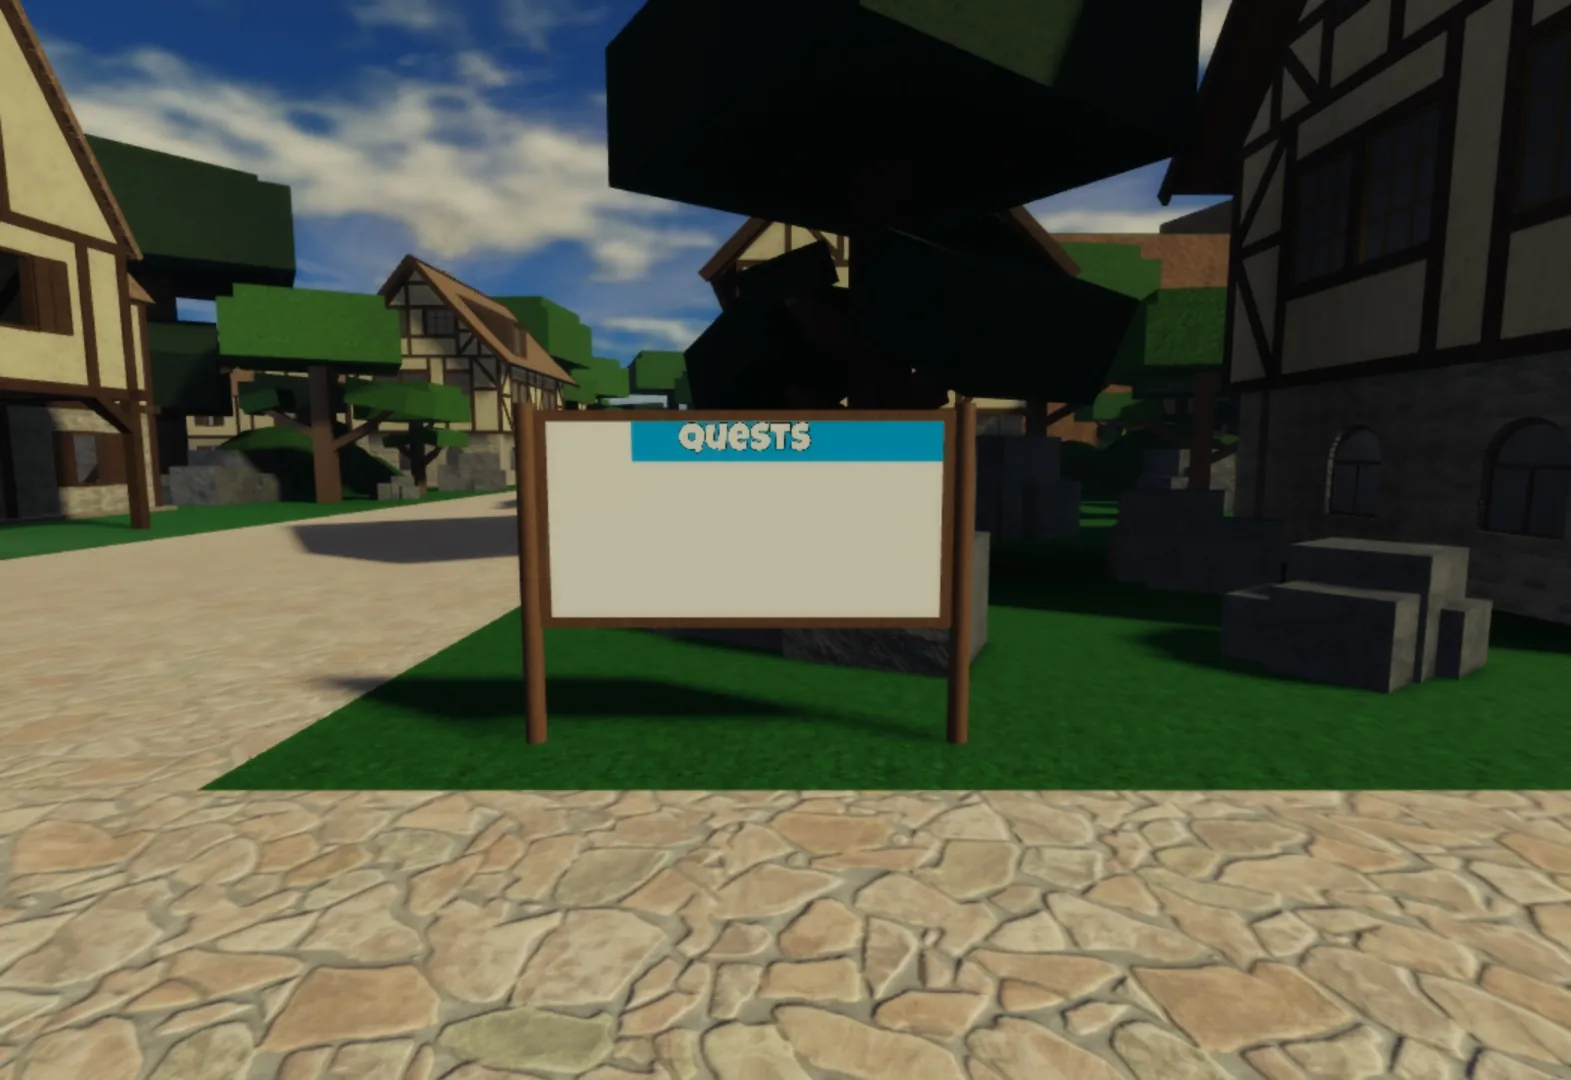
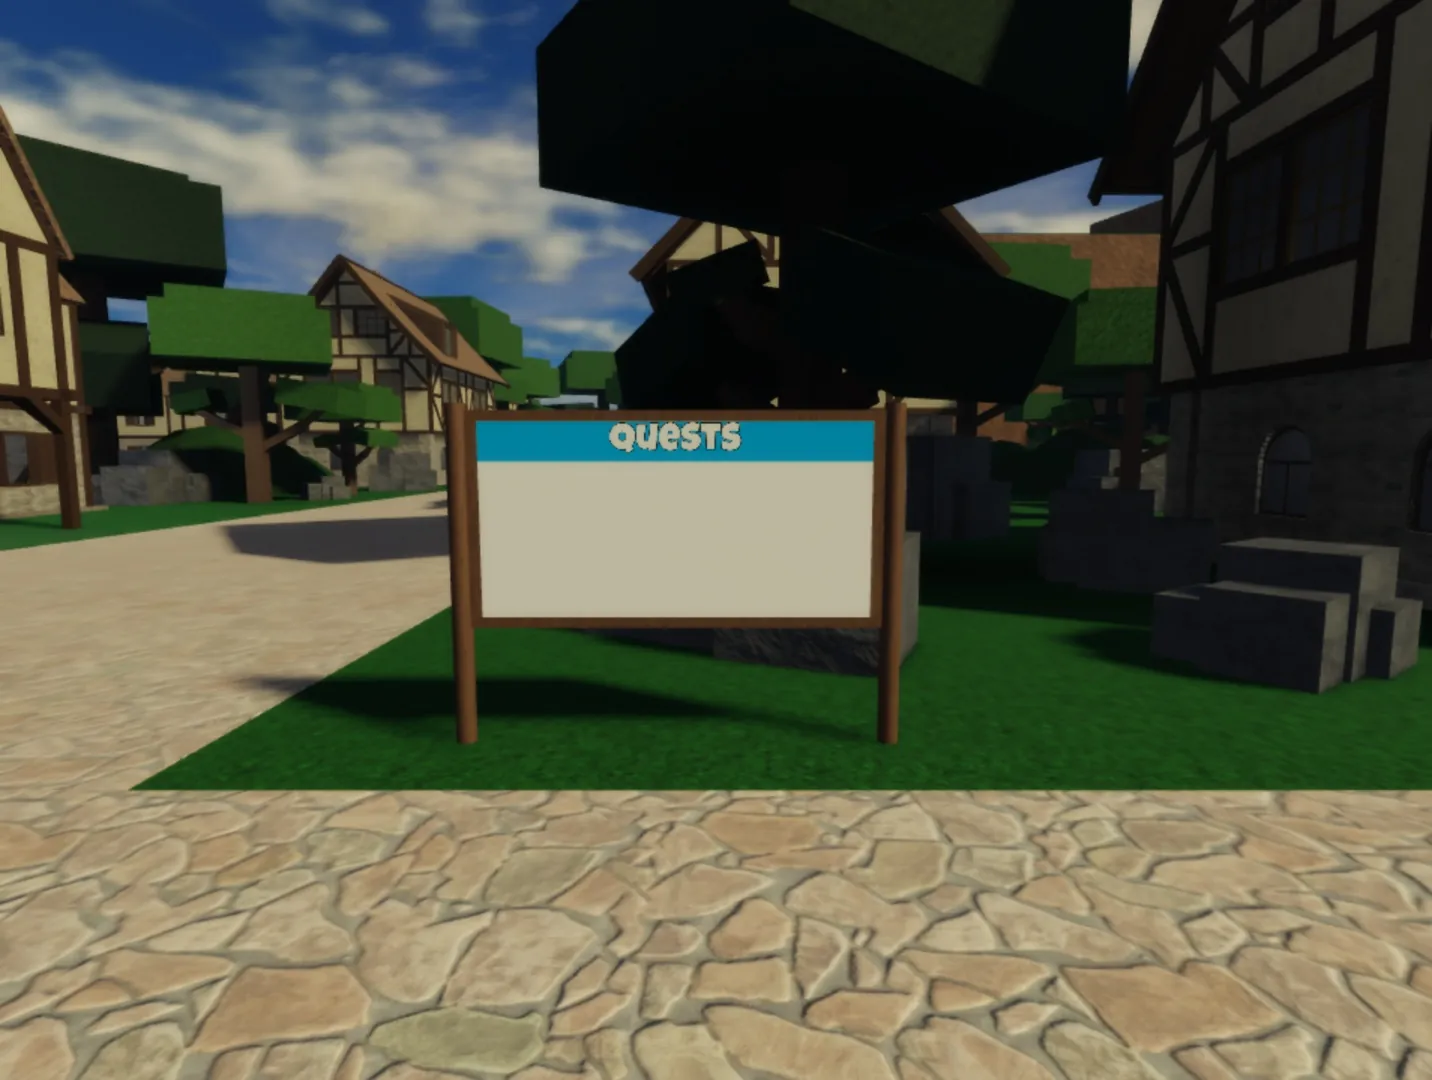
Roblox page: re-shot quest board

diff --git a/roblox/index.html b/roblox/index.html
@@ -158,7 +158,7 @@
         <h3 style="margin-top:18px">Shop &amp; inventory</h3>
         <p>Weapons are data too (price and damage), bought from a shop UI and shown in the inventory with live 3D previews of the item and your character.</p>
       </div>
-      <figure class="shot"><img src="/assets/roblox/quest-board.webp" alt="The quest board in the village square" width="1571" height="1080" loading="lazy"><figcaption>The quest board</figcaption></figure>
+      <figure class="shot"><img src="/assets/roblox/quest-board.webp" alt="The quest board in the village square" width="1432" height="1080" loading="lazy"><figcaption>The quest board</figcaption></figure>
     </div>
     <div class="sys flip reveal">
       <div class="panel">
